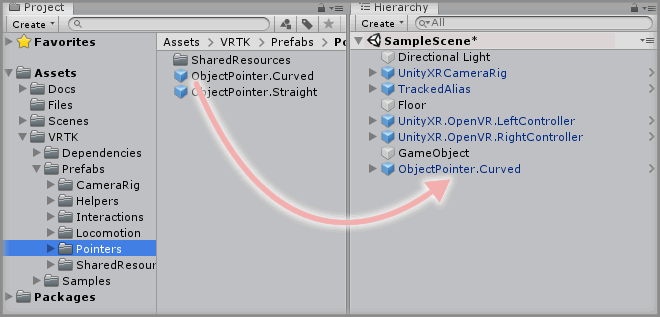
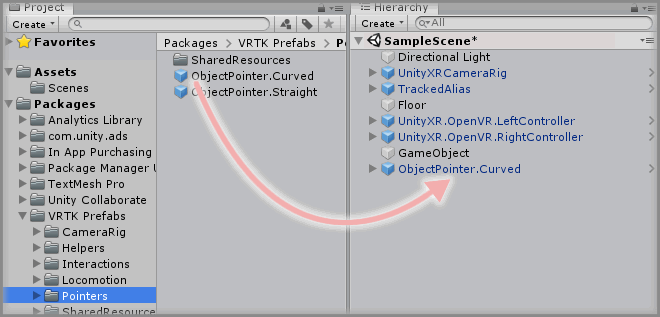
fix(HowToGuides): update adding curved pointer guide
Update the guide to show the steps for needing the new VRTK Prefabs
repository.

Changed region(s): [[0.0, 0.1987, 0.2424, 0.9937], [0.2424, 0.1136, 0.5455, 0.1703]]

diff --git a/Documentation/HowToGuides/Pointers/AddingACurvedPointer/README.md b/Documentation/HowToGuides/Pointers/AddingACurvedPointer/README.md
@@ -30,7 +30,7 @@ The Curved Pointer is a popular choice when creating a teleport locomotion featu
 
 ### Step 1
 
-Expand the VRTK directory in the Unity Project window until the `VRTK -> Prefabs -> Pointers` directory is visible then drag and drop the `ObjectPointer.Curved` prefab into the Hierarchy window.
+Expand the VRTK Prefabs Package directory in the Unity Project window until the `Prefabs -> VRTK Prefabs -> Pointers` directory is visible then drag and drop the `ObjectPointer.Curved` prefab into the Hierarchy window.
 
 ![Drag Curved Object Pointer To Hierarchy](assets/images/DragCurvedObjectPointerToHierarchy.png)
 
